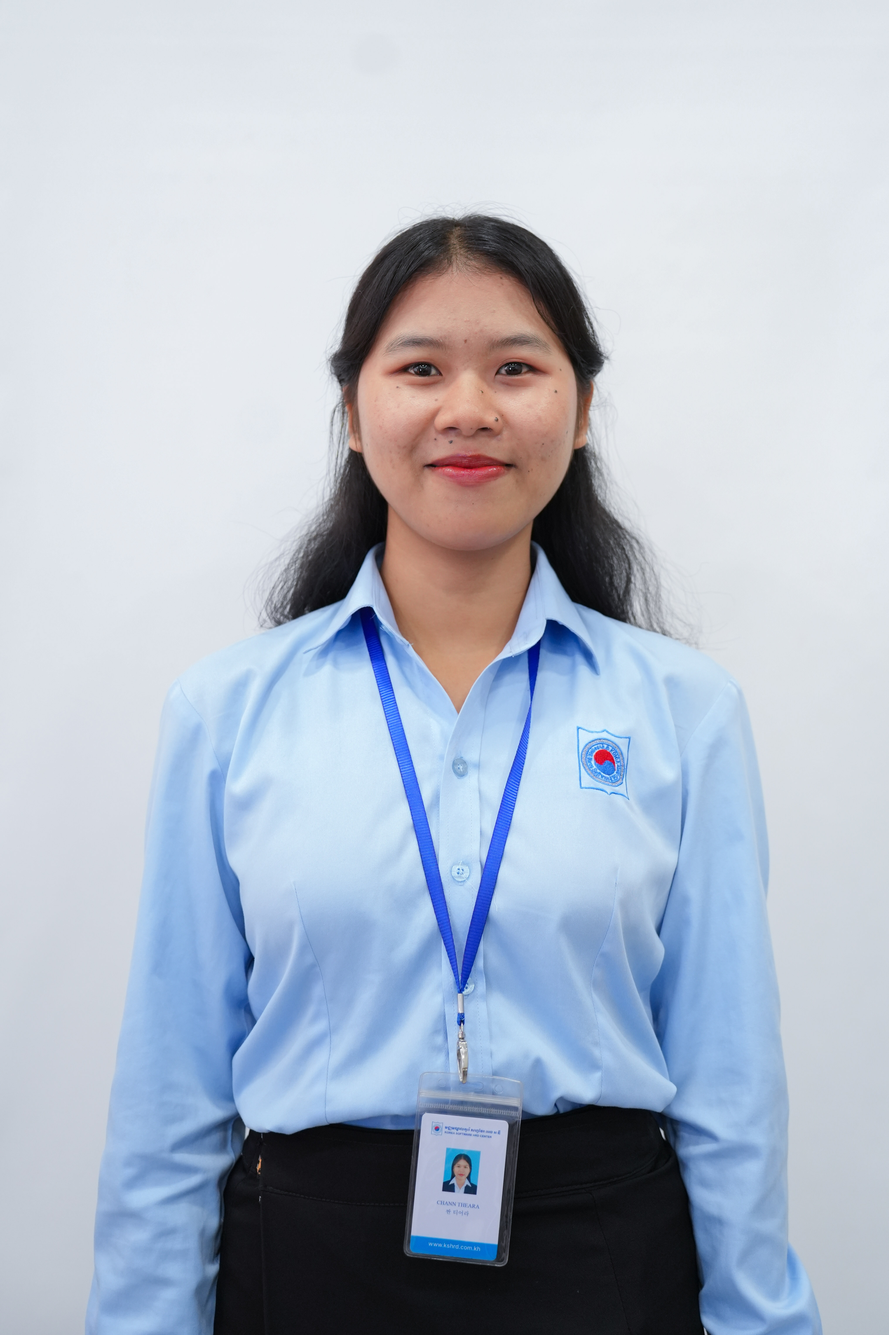
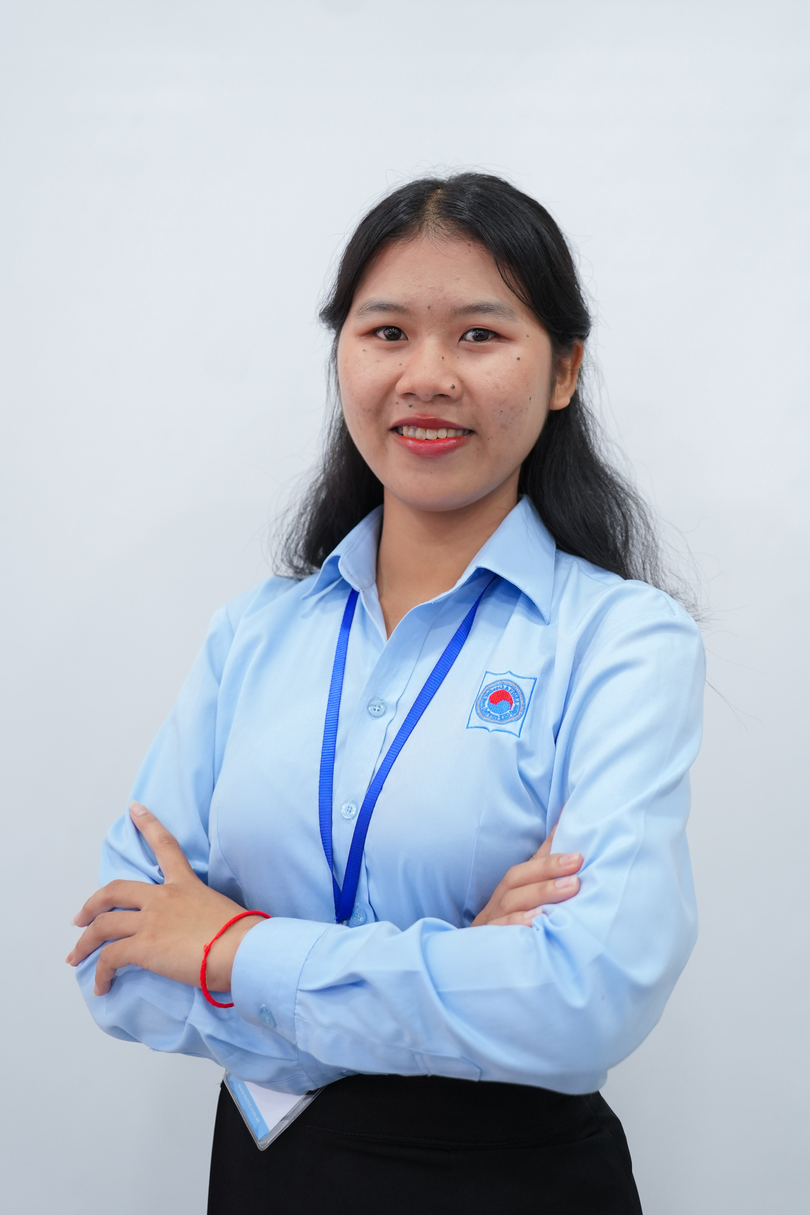
submit  ui design 1 :wheelchair:

diff --git a/components/card/CardBoard.jsx b/components/card/CardBoard.jsx
@@ -12,6 +12,7 @@ import iconMember from "@/assets/memberSideBar.png";
 import Image from "next/image";
 
 import { usePathname, useSearchParams } from "next/navigation";
+import ModalDelete from "../modal/ModalDelete";
 
 export default function CardBoard({ title, image, role }) {
   const pathname = usePathname();
@@ -27,7 +28,7 @@ export default function CardBoard({ title, image, role }) {
   const [favorited, setFavorited] = useState(false);
 
   return (
-    <Link href={`/dashboard/${workspaceId}/${projectId}/board?role=${role}`}>
+   
       <Card className="py-4 h-[340px] rounded-xl shadow-sm">
         {/* Header */}
         <CardHeader className="pb-0 pt-2 px-4 flex justify-between items-center">
@@ -50,6 +51,7 @@ export default function CardBoard({ title, image, role }) {
 
         {/* Body */}
         <CardBody className="overflow-visible py-2">
+           <Link href={`/dashboard/${workspaceId}/${projectId}/board?role=${role}`}>
           {image && image.startsWith("bg-") ? (
             <div
               className={`rounded-xl w-full h-32 bg-cover bg-center ${image}`}
@@ -62,6 +64,7 @@ export default function CardBoard({ title, image, role }) {
               className="object-cover rounded-xl w-full h-32"
             />
           )}
+          </Link>
         </CardBody>
 
         {/* Footer */}
@@ -76,13 +79,21 @@ export default function CardBoard({ title, image, role }) {
               />
               <p className="text-body-sm">13 Members</p>
             </div>
-            <div className="flex items-center text-progress-red p-3 gap-1">
-              <IconDelete />
-              <button className="hover:underline text-body-sm">Remove</button>
+            
+           
+                <div className="flex items-center text-progress-red py-5 gap-1">
+                  <IconDelete />
+                <ModalDelete  title="Remove"
+                  color="text-red-500"
+                  massageTitle="Delete this board?"
+                  massageBody="This action will remove the board."
+                  massageUndo="Cancel"
+                  massageDo="Delete" />
             </div>
+            
           </div>
         </CardFooter>
       </Card>
-    </Link>
+   
   );
 }

diff --git a/components/modal/ModalDelete.jsx b/components/modal/ModalDelete.jsx
@@ -16,6 +16,7 @@ export default function ModalDelete({
   massageBody,
   massageUndo,
   massageDo,
+  color,
   action,
 }) {
   const { isOpen, onOpen, onOpenChange } = useDisclosure();
@@ -24,9 +25,9 @@ export default function ModalDelete({
     <>
       <Button
         onPress={onOpen}
-        className="bg-transparent  flex items-center gap-2 cursor-pointer p-0 !border-0"
+        className="bg-transparent  flex items-center gap-2 cursor-pointer p-3 !border-0"
       >
-        <span className=" font-medium">{title}</span>
+        <div className={`font-medium ${color} `}>{title}</div>
       </Button>
       <Modal isOpen={isOpen} onOpenChange={onOpenChange} size="sm">
         <ModalContent className="flex  flex-col justify-center items-center">
@@ -42,16 +43,23 @@ export default function ModalDelete({
                 <p>{massageBody}</p>
               </ModalBody>
               <ModalFooter>
-                <Button
-                  className="bg-slate-blue-more"
-                  variant="light"
-                  onPress={onClose}
-                >
-                  <p className="text-slate-blue">{massageUndo}</p>
-                </Button>
-                <Button className="bg-slate-red" onPress={onClose}>
-                  <p className="text-red-300">{massageDo}</p>
-                </Button>
+               <Button
+                className="bg-slate-blue-more text-white font-semibold"
+                variant="light"
+                onPress={onClose}
+              >
+                <p className="text-blue-500">{massageUndo}</p>
+
+              </Button>
+
+              <Button
+                className="bg-slate-red text-white font-semibold"
+                onPress={onClose}
+              >
+                <p className="text-red-500">{massageDo}</p>
+                
+              </Button>
+
               </ModalFooter>
             </>
           )}

diff --git a/components/card/CardDoc.jsx b/components/card/CardDoc.jsx
@@ -12,21 +12,15 @@ import iconMember from "@/assets/memberSideBar.png";
 
 import Image from "next/image";
 import { icon } from "../icon/allicon";
+import ModalOptionDocument from "../modal/docu/ModalOptionDocument";
 
 export default function CardFolder({ title, status, date }) {
   return (
     <Card className="rounded-xl text-blue-400 cursor-pointer hover:bg-blue-50 transition sm:w-[160px] md:w-full h-[160px] shadow-sm ">
       {/* Header */}
       <CardHeader className="pb-0 pt-2 px-4 flex justify-end">
-        <div className="hover:text-black text-gray-600">
-          <svg
-            xmlns="http://www.w3.org/2000/svg"
-            className="w-4 h-4"
-            fill="currentColor"
-            viewBox="0 0 20 20"
-          >
-            <path d="M10 6a2 2 0 110-4 2 2 0 010 4zm0 6a2 2 0 110-4 2 2 0 010 4zm0 6a2 2 0 110-4 2 2 0 010 4z" />
-          </svg>
+         <div className="hover:text-black text-gray-600">
+        <ModalOptionDocument />
         </div>
       </CardHeader>
 
@@ -201,14 +195,7 @@ export function CardFile({ title, status, date, type }) {
       {/* Header */}
       <CardHeader className="pb-0 pt-2 px-4 flex justify-end">
         <div className="hover:text-black text-gray-600">
-          <svg
-            xmlns="http://www.w3.org/2000/svg"
-            className="w-4 h-4"
-            fill="currentColor"
-            viewBox="0 0 20 20"
-          >
-            <path d="M10 6a2 2 0 110-4 2 2 0 010 4zm0 6a2 2 0 110-4 2 2 0 010 4zm0 6a2 2 0 110-4 2 2 0 010 4z" />
-          </svg>
+        <ModalOptionDocument />
         </div>
       </CardHeader>
 

diff --git a/app/(home)/aboutus/page.jsx b/app/(home)/aboutus/page.jsx
@@ -1037,7 +1037,7 @@ export default function AboutUs() {
 
               {/* 7 */}
               <div className="col-span-1">
-                <div className="relative box-content w-[161px]  h-[374px]   rounded-full overflow-hidden group ">
+                <div className="relative box-content w-[161px]  h-[344px]   rounded-full overflow-hidden group ">
                   <Image
                     src={visa}
                     alt="Example"
@@ -1158,7 +1158,7 @@ export default function AboutUs() {
                 </div>
               </div>
               {/* 4 */}
-              <div className="relative box-content col-span-2 w-[230px] h-[150px] rounded-full rounded-br-none overflow-hidden group">
+              <div className="relative box-content col-span-2 w-[300px] h-[150px] rounded-full rounded-br-none overflow-hidden group">
                 <Image
                   src={leap}
                   alt="Example"

diff --git a/components/modal/ModalLeave.jsx b/components/modal/ModalLeave.jsx
@@ -46,10 +46,10 @@ export default function ModalLeave({
                   variant="light"
                   onPress={onClose}
                 >
-                  <p className="text-slate-blue">{massageUndo}</p>
+                  <p className="text-blue-500">{massageUndo}</p>
                 </Button>
                 <Button className="bg-slate-red" onPress={onClose}>
-                  <p className="text-red-300">{massageDo}</p>
+                  <p className="text-red-500">{massageDo}</p>
                 </Button>
               </ModalFooter>
             </>
